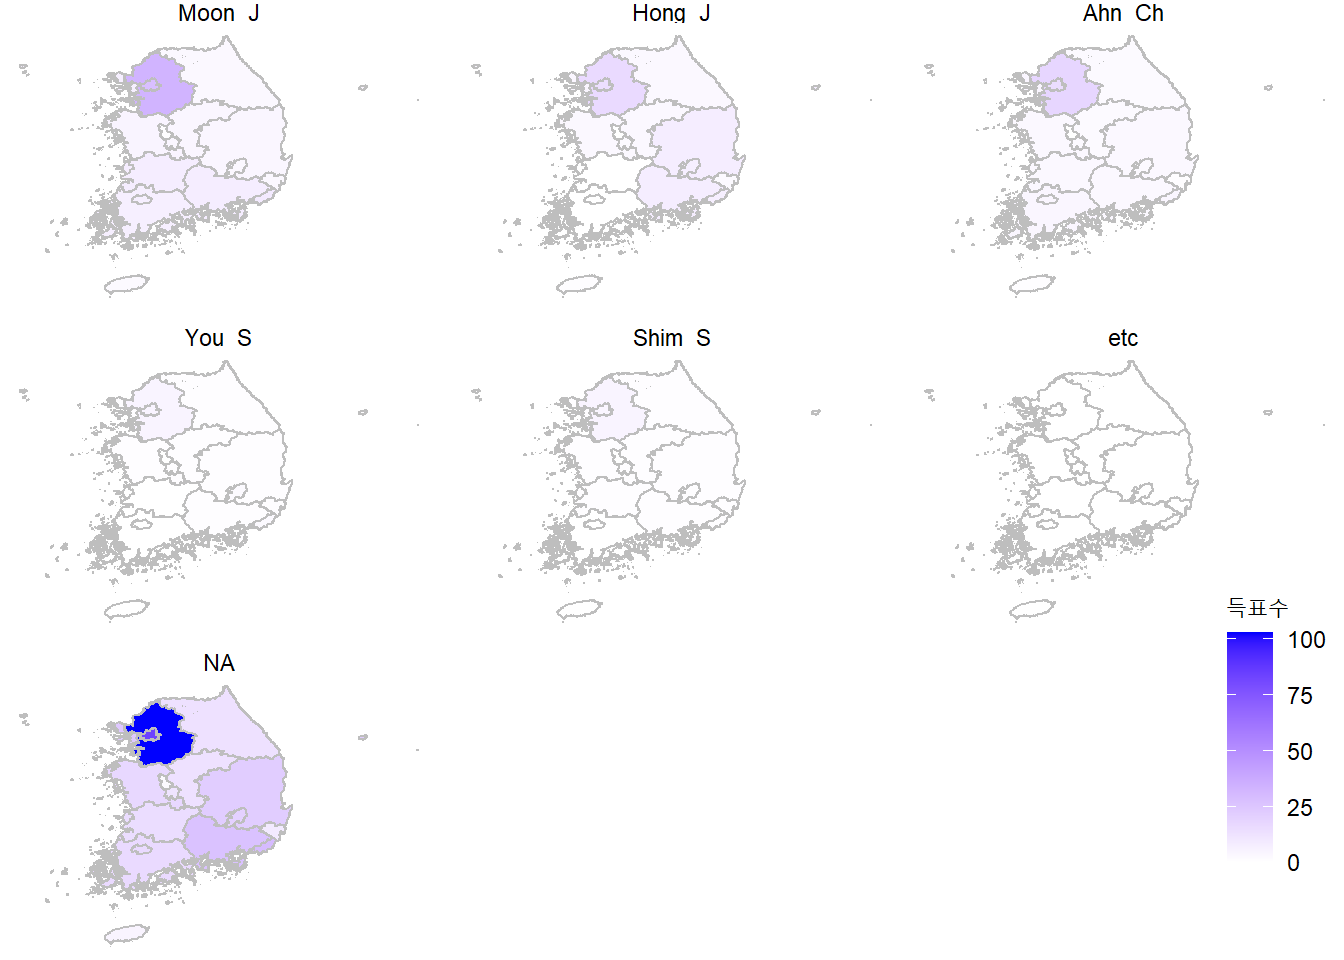
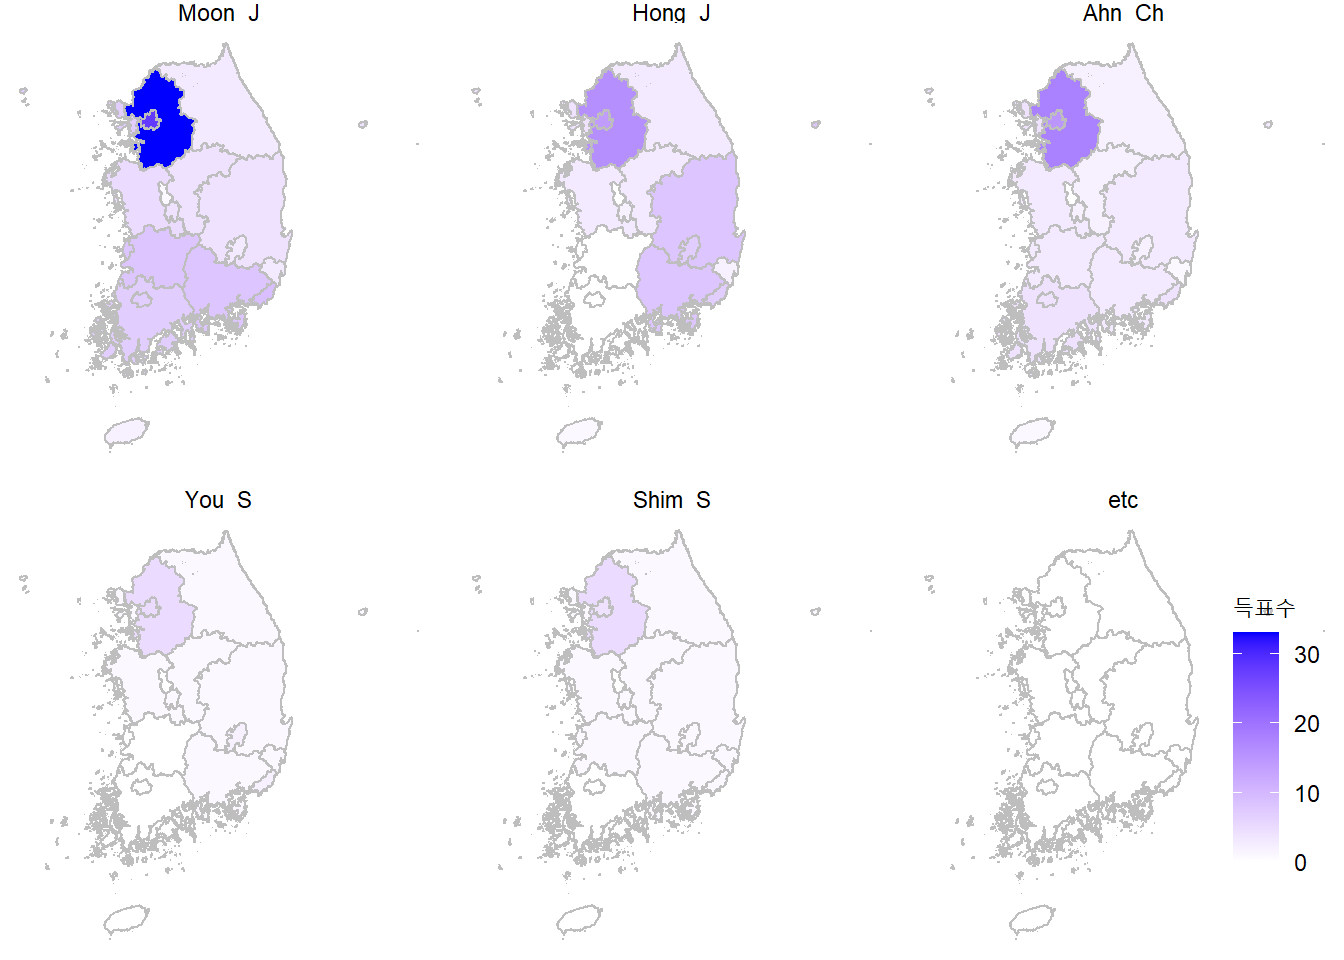
Vote Update

diff --git a/GGMAP_19th_Presidential_Vote/dataset-visualization.html b/GGMAP_19th_Presidential_Vote/dataset-visualization.html
@@ -287,17 +287,16 @@ code span.wa { color: #60a0b0; font-weight: bold; font-style: italic; } /* Warni
 </ul>
 <div class="sourceCode" id="cb51"><pre class="sourceCode r"><code class="sourceCode r"><span id="cb51-1"><a href="dataset-visualization.html#cb51-1" aria-hidden="true" tabindex="-1"></a>vote_CTPRVN <span class="ot">&lt;-</span> data <span class="sc">%&gt;%</span> <span class="fu">filter</span>(SIG_NM <span class="sc">==</span> <span class="st">&quot;합계&quot;</span>) <span class="sc">%&gt;%</span> </span>
 <span id="cb51-2"><a href="dataset-visualization.html#cb51-2" aria-hidden="true" tabindex="-1"></a>        <span class="fu">mutate</span>(<span class="at">etc =</span> Sum <span class="sc">-</span> (Moon_J <span class="sc">+</span> Hong_J <span class="sc">+</span> Ahn_Ch <span class="sc">+</span> You_S <span class="sc">+</span> Shim_S)) <span class="sc">%&gt;%</span> </span>
-<span id="cb51-3"><a href="dataset-visualization.html#cb51-3" aria-hidden="true" tabindex="-1"></a>        dplyr<span class="sc">::</span><span class="fu">select</span>(CTPRVN_NM, Moon_J, Hong_J, Ahn_Ch, You_S, Shim_S, etc, N_People)</span>
+<span id="cb51-3"><a href="dataset-visualization.html#cb51-3" aria-hidden="true" tabindex="-1"></a>        dplyr<span class="sc">::</span><span class="fu">select</span>(CTPRVN_NM, Moon_J, Hong_J, Ahn_Ch, You_S, Shim_S, etc)</span>
 <span id="cb51-4"><a href="dataset-visualization.html#cb51-4" aria-hidden="true" tabindex="-1"></a><span class="fu">str</span>(vote_CTPRVN)</span></code></pre></div>
-<pre><code>## tibble [17 x 8] (S3: tbl_df/tbl/data.frame)
+<pre><code>## tibble [17 x 7] (S3: tbl_df/tbl/data.frame)
 ##  $ CTPRVN_NM: chr [1:17] &quot;서울특별시&quot; &quot;부산광역시&quot; &quot;대구광역시&quot; &quot;인천광역시&quot; ...
 ##  $ Moon_J   : num [1:17] 2781345 872127 342620 747090 583847 ...
 ##  $ Hong_J   : num [1:17] 1365285 720484 714205 379191 14882 ...
 ##  $ Ahn_Ch   : num [1:17] 1492767 378907 235757 428888 287222 ...
 ##  $ You_S    : num [1:17] 476973 162480 198459 118691 20862 ...
 ##  $ Shim_S   : num [1:17] 425459 109329 74440 129925 43719 ...
-##  $ etc      : num [1:17] 27088 9382 8895 9178 4300 ...
-##  $ N_People : num [1:17] 8382999 2950224 2043276 2409031 1166901 ...</code></pre>
+##  $ etc      : num [1:17] 27088 9382 8895 9178 4300 ...</code></pre>
 </div>
 <div id="득표수-데이터-세트의-모양-변환" class="section level2" number="3.3">
 <h2><span class="header-section-number">3.3</span> 득표수 데이터 세트의 모양 변환</h2>
@@ -306,10 +305,10 @@ code span.wa { color: #60a0b0; font-weight: bold; font-style: italic; } /* Warni
 <p><code>vote_CTPRVN</code> 데이터 세트를 long 형태로 변환한다.</p>
 <div class="sourceCode" id="cb53"><pre class="sourceCode r"><code class="sourceCode r"><span id="cb53-1"><a href="dataset-visualization.html#cb53-1" aria-hidden="true" tabindex="-1"></a>vote_CTPRVN_long <span class="ot">&lt;-</span> vote_CTPRVN <span class="sc">%&gt;%</span> <span class="fu">pivot_longer</span>(<span class="at">names_to =</span> <span class="st">&quot;name&quot;</span>, <span class="at">values_to =</span> <span class="st">&quot;n_vote&quot;</span>, <span class="sc">-</span><span class="dv">1</span>)</span>
 <span id="cb53-2"><a href="dataset-visualization.html#cb53-2" aria-hidden="true" tabindex="-1"></a><span class="fu">str</span>(vote_CTPRVN_long)</span></code></pre></div>
-<pre><code>## tibble [119 x 3] (S3: tbl_df/tbl/data.frame)
-##  $ CTPRVN_NM: chr [1:119] &quot;서울특별시&quot; &quot;서울특별시&quot; &quot;서울특별시&quot; &quot;서울특별시&quot; ...
-##  $ name     : chr [1:119] &quot;Moon_J&quot; &quot;Hong_J&quot; &quot;Ahn_Ch&quot; &quot;You_S&quot; ...
-##  $ n_vote   : num [1:119] 2781345 1365285 1492767 476973 425459 ...</code></pre>
+<pre><code>## tibble [102 x 3] (S3: tbl_df/tbl/data.frame)
+##  $ CTPRVN_NM: chr [1:102] &quot;서울특별시&quot; &quot;서울특별시&quot; &quot;서울특별시&quot; &quot;서울특별시&quot; ...
+##  $ name     : chr [1:102] &quot;Moon_J&quot; &quot;Hong_J&quot; &quot;Ahn_Ch&quot; &quot;You_S&quot; ...
+##  $ n_vote   : num [1:102] 2781345 1365285 1492767 476973 425459 ...</code></pre>
 <ul>
 <li>이제 17개 이던 행의 갯수가 102개로 늘어 났다. (6명 후보 * 17개 시도 = 102개 행)</li>
 </ul>
@@ -325,36 +324,36 @@ code span.wa { color: #60a0b0; font-weight: bold; font-style: italic; } /* Warni
 <div class="sourceCode" id="cb55"><pre class="sourceCode r"><code class="sourceCode r"><span id="cb55-1"><a href="dataset-visualization.html#cb55-1" aria-hidden="true" tabindex="-1"></a>vote <span class="ot">&lt;-</span> vote_CTPRVN_long <span class="sc">%&gt;%</span> </span>
 <span id="cb55-2"><a href="dataset-visualization.html#cb55-2" aria-hidden="true" tabindex="-1"></a>  <span class="fu">left_join</span>(result, <span class="at">by =</span> <span class="fu">c</span>(<span class="st">&quot;CTPRVN_NM&quot;</span> <span class="ot">=</span> <span class="st">&quot;CTP_KOR_NM&quot;</span>))</span>
 <span id="cb55-3"><a href="dataset-visualization.html#cb55-3" aria-hidden="true" tabindex="-1"></a><span class="fu">str</span>(vote)</span></code></pre></div>
-<pre><code>## tibble [5,591,866 x 11] (S3: tbl_df/tbl/data.frame)
-##  $ CTPRVN_NM : chr [1:5591866] &quot;서울특별시&quot; &quot;서울특별시&quot; &quot;서울특별시&quot; &quot;서울특별시&quot; ...
-##  $ name      : chr [1:5591866] &quot;Moon_J&quot; &quot;Moon_J&quot; &quot;Moon_J&quot; &quot;Moon_J&quot; ...
-##  $ n_vote    : num [1:5591866] 2781345 2781345 2781345 2781345 2781345 ...
-##  $ long      : num [1:5591866] 127 127 127 127 127 ...
-##  $ lat       : num [1:5591866] 37.6 37.6 37.6 37.6 37.6 ...
-##  $ order     : int [1:5591866] 1 2 3 4 5 6 7 8 9 10 ...
-##  $ hole      : logi [1:5591866] FALSE FALSE FALSE FALSE FALSE FALSE ...
+<pre><code>## tibble [4,793,028 x 11] (S3: tbl_df/tbl/data.frame)
+##  $ CTPRVN_NM : chr [1:4793028] &quot;서울특별시&quot; &quot;서울특별시&quot; &quot;서울특별시&quot; &quot;서울특별시&quot; ...
+##  $ name      : chr [1:4793028] &quot;Moon_J&quot; &quot;Moon_J&quot; &quot;Moon_J&quot; &quot;Moon_J&quot; ...
+##  $ n_vote    : num [1:4793028] 2781345 2781345 2781345 2781345 2781345 ...
+##  $ long      : num [1:4793028] 127 127 127 127 127 ...
+##  $ lat       : num [1:4793028] 37.6 37.6 37.6 37.6 37.6 ...
+##  $ order     : int [1:4793028] 1 2 3 4 5 6 7 8 9 10 ...
+##  $ hole      : logi [1:4793028] FALSE FALSE FALSE FALSE FALSE FALSE ...
 ##  $ piece     : Factor w/ 2228 levels &quot;1&quot;,&quot;2&quot;,&quot;3&quot;,&quot;4&quot;,..: 1 1 1 1 1 1 1 1 1 1 ...
-##  $ id        : chr [1:5591866] &quot;11&quot; &quot;11&quot; &quot;11&quot; &quot;11&quot; ...
+##  $ id        : chr [1:4793028] &quot;11&quot; &quot;11&quot; &quot;11&quot; &quot;11&quot; ...
 ##  $ group     : Factor w/ 4558 levels &quot;11.1&quot;,&quot;11.2&quot;,..: 1 1 1 1 1 1 1 1 1 1 ...
-##  $ CTP_ENG_NM: chr [1:5591866] &quot;Seoul&quot; &quot;Seoul&quot; &quot;Seoul&quot; &quot;Seoul&quot; ...</code></pre>
+##  $ CTP_ENG_NM: chr [1:4793028] &quot;Seoul&quot; &quot;Seoul&quot; &quot;Seoul&quot; &quot;Seoul&quot; ...</code></pre>
 </div>
 <div id="후보자-이름-컬럼을-factor-형으로-변환" class="section level2" number="3.5">
 <h2><span class="header-section-number">3.5</span> 후보자 이름 컬럼을 factor 형으로 변환</h2>
 <p><code>vote</code>의 <code>name</code> 컬럼을 <code>factor</code> 형으로 변환한다. 그 순서는 후보자 번호 순으로 한다.</p>
-<div class="sourceCode" id="cb57"><pre class="sourceCode r"><code class="sourceCode r"><span id="cb57-1"><a href="dataset-visualization.html#cb57-1" aria-hidden="true" tabindex="-1"></a>vote<span class="sc">$</span>name <span class="ot">&lt;-</span> <span class="fu">factor</span>(vote<span class="sc">$</span>name, <span class="at">levels =</span> <span class="fu">c</span>(<span class="st">&quot;Moon_J&quot;</span>, <span class="st">&quot;Hong_J&quot;</span>, <span class="st">&quot;Ahn_Ch&quot;</span>, <span class="st">&quot;You_S&quot;</span>, <span class="st">&quot;Shim_S&quot;</span>, <span class="st">&quot;etc&quot;</span>, <span class="st">&quot;총 투표자&quot;</span>))</span>
+<div class="sourceCode" id="cb57"><pre class="sourceCode r"><code class="sourceCode r"><span id="cb57-1"><a href="dataset-visualization.html#cb57-1" aria-hidden="true" tabindex="-1"></a>vote<span class="sc">$</span>name <span class="ot">&lt;-</span> <span class="fu">factor</span>(vote<span class="sc">$</span>name, <span class="at">levels =</span> <span class="fu">c</span>(<span class="st">&quot;Moon_J&quot;</span>, <span class="st">&quot;Hong_J&quot;</span>, <span class="st">&quot;Ahn_Ch&quot;</span>, <span class="st">&quot;You_S&quot;</span>, <span class="st">&quot;Shim_S&quot;</span>, <span class="st">&quot;etc&quot;</span>))</span>
 <span id="cb57-2"><a href="dataset-visualization.html#cb57-2" aria-hidden="true" tabindex="-1"></a><span class="fu">str</span>(vote)</span></code></pre></div>
-<pre><code>## tibble [5,591,866 x 11] (S3: tbl_df/tbl/data.frame)
-##  $ CTPRVN_NM : chr [1:5591866] &quot;서울특별시&quot; &quot;서울특별시&quot; &quot;서울특별시&quot; &quot;서울특별시&quot; ...
-##  $ name      : Factor w/ 7 levels &quot;Moon_J&quot;,&quot;Hong_J&quot;,..: 1 1 1 1 1 1 1 1 1 1 ...
-##  $ n_vote    : num [1:5591866] 2781345 2781345 2781345 2781345 2781345 ...
-##  $ long      : num [1:5591866] 127 127 127 127 127 ...
-##  $ lat       : num [1:5591866] 37.6 37.6 37.6 37.6 37.6 ...
-##  $ order     : int [1:5591866] 1 2 3 4 5 6 7 8 9 10 ...
-##  $ hole      : logi [1:5591866] FALSE FALSE FALSE FALSE FALSE FALSE ...
+<pre><code>## tibble [4,793,028 x 11] (S3: tbl_df/tbl/data.frame)
+##  $ CTPRVN_NM : chr [1:4793028] &quot;서울특별시&quot; &quot;서울특별시&quot; &quot;서울특별시&quot; &quot;서울특별시&quot; ...
+##  $ name      : Factor w/ 6 levels &quot;Moon_J&quot;,&quot;Hong_J&quot;,..: 1 1 1 1 1 1 1 1 1 1 ...
+##  $ n_vote    : num [1:4793028] 2781345 2781345 2781345 2781345 2781345 ...
+##  $ long      : num [1:4793028] 127 127 127 127 127 ...
+##  $ lat       : num [1:4793028] 37.6 37.6 37.6 37.6 37.6 ...
+##  $ order     : int [1:4793028] 1 2 3 4 5 6 7 8 9 10 ...
+##  $ hole      : logi [1:4793028] FALSE FALSE FALSE FALSE FALSE FALSE ...
 ##  $ piece     : Factor w/ 2228 levels &quot;1&quot;,&quot;2&quot;,&quot;3&quot;,&quot;4&quot;,..: 1 1 1 1 1 1 1 1 1 1 ...
-##  $ id        : chr [1:5591866] &quot;11&quot; &quot;11&quot; &quot;11&quot; &quot;11&quot; ...
+##  $ id        : chr [1:4793028] &quot;11&quot; &quot;11&quot; &quot;11&quot; &quot;11&quot; ...
 ##  $ group     : Factor w/ 4558 levels &quot;11.1&quot;,&quot;11.2&quot;,..: 1 1 1 1 1 1 1 1 1 1 ...
-##  $ CTP_ENG_NM: chr [1:5591866] &quot;Seoul&quot; &quot;Seoul&quot; &quot;Seoul&quot; &quot;Seoul&quot; ...</code></pre>
+##  $ CTP_ENG_NM: chr [1:4793028] &quot;Seoul&quot; &quot;Seoul&quot; &quot;Seoul&quot; &quot;Seoul&quot; ...</code></pre>
 </div>
 <div id="데이터-세트-저장하기" class="section level2" number="3.6">
 <h2><span class="header-section-number">3.6</span> 데이터 세트 저장하기</h2>
